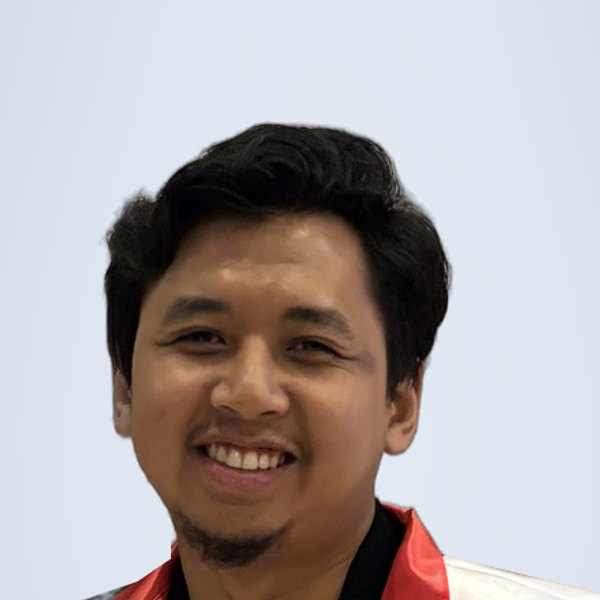
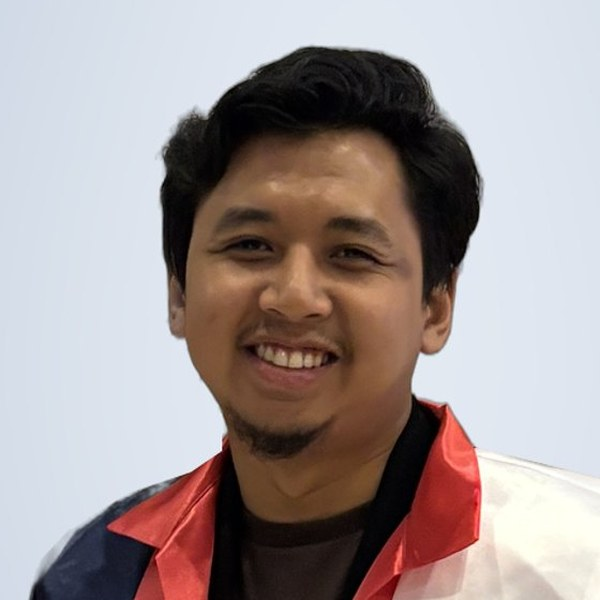
Add Fadhil to the team, team photos, and centre the map photo

diff --git a/src/styles/global.css b/src/styles/global.css
@@ -143,6 +143,7 @@ a:hover { color: var(--link-hover); }
 .team { background: var(--ice); }
 .team-grid { list-style: none; margin: 0; padding: 0; display: grid; grid-template-columns: repeat(auto-fit, minmax(220px, 1fr)); gap: 32px; }
 .member img, .member-ph { display: grid; place-items: center; width: 140px; height: 140px; border-radius: 14px; object-fit: cover; background: var(--panel); box-shadow: var(--sh-card); font: 700 34px var(--display); color: var(--navy); margin-bottom: 14px; }
+.member-ph { background: color-mix(in srgb, var(--cobalt) 12%, var(--panel)); color: var(--cobalt); }
 .member h3 { font-size: 18px; margin: 0 0 2px; }
 .member p { font-size: 16px; margin: 6px 0 6px; }
 .member .meta { text-decoration: none; }
